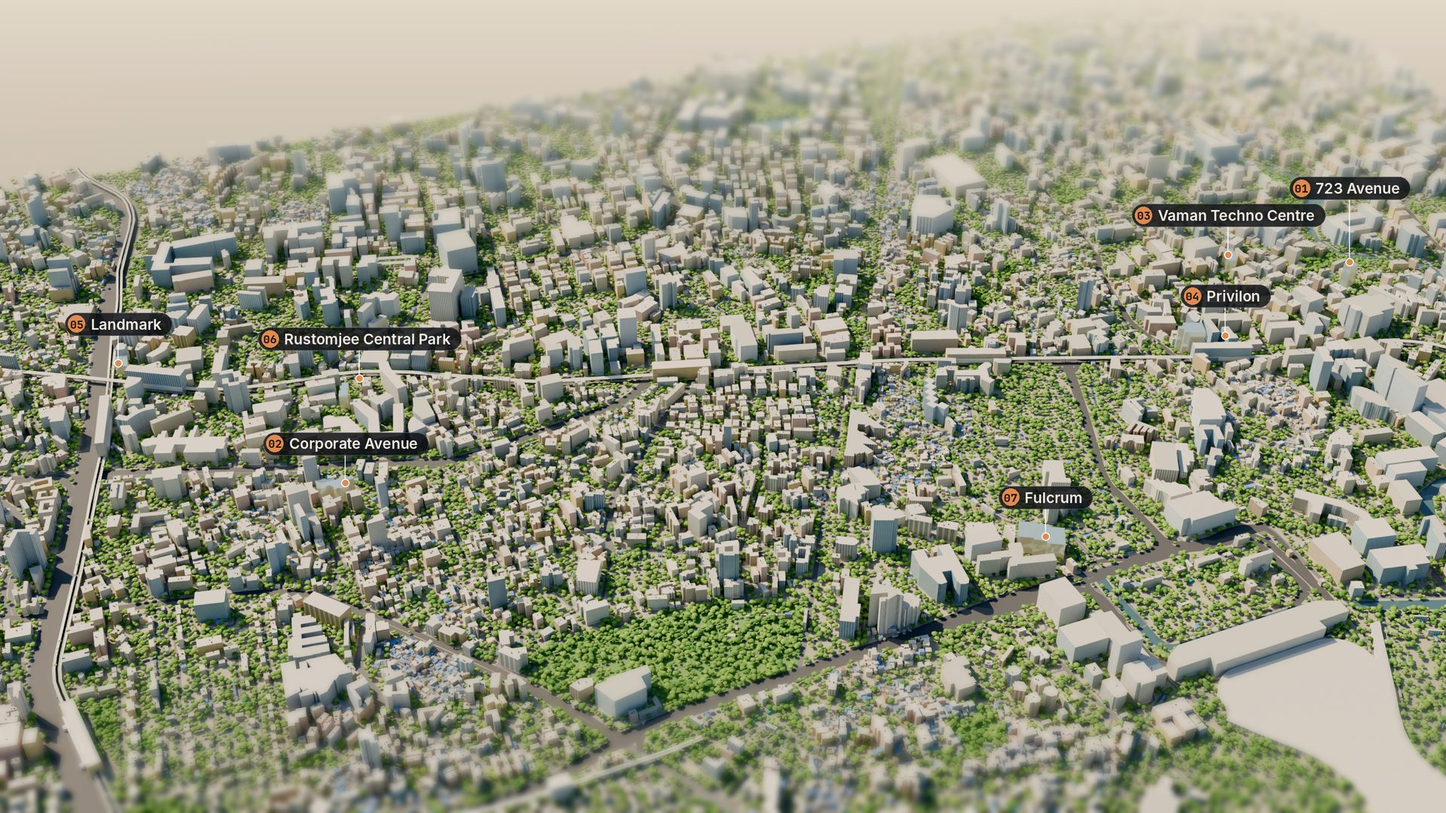
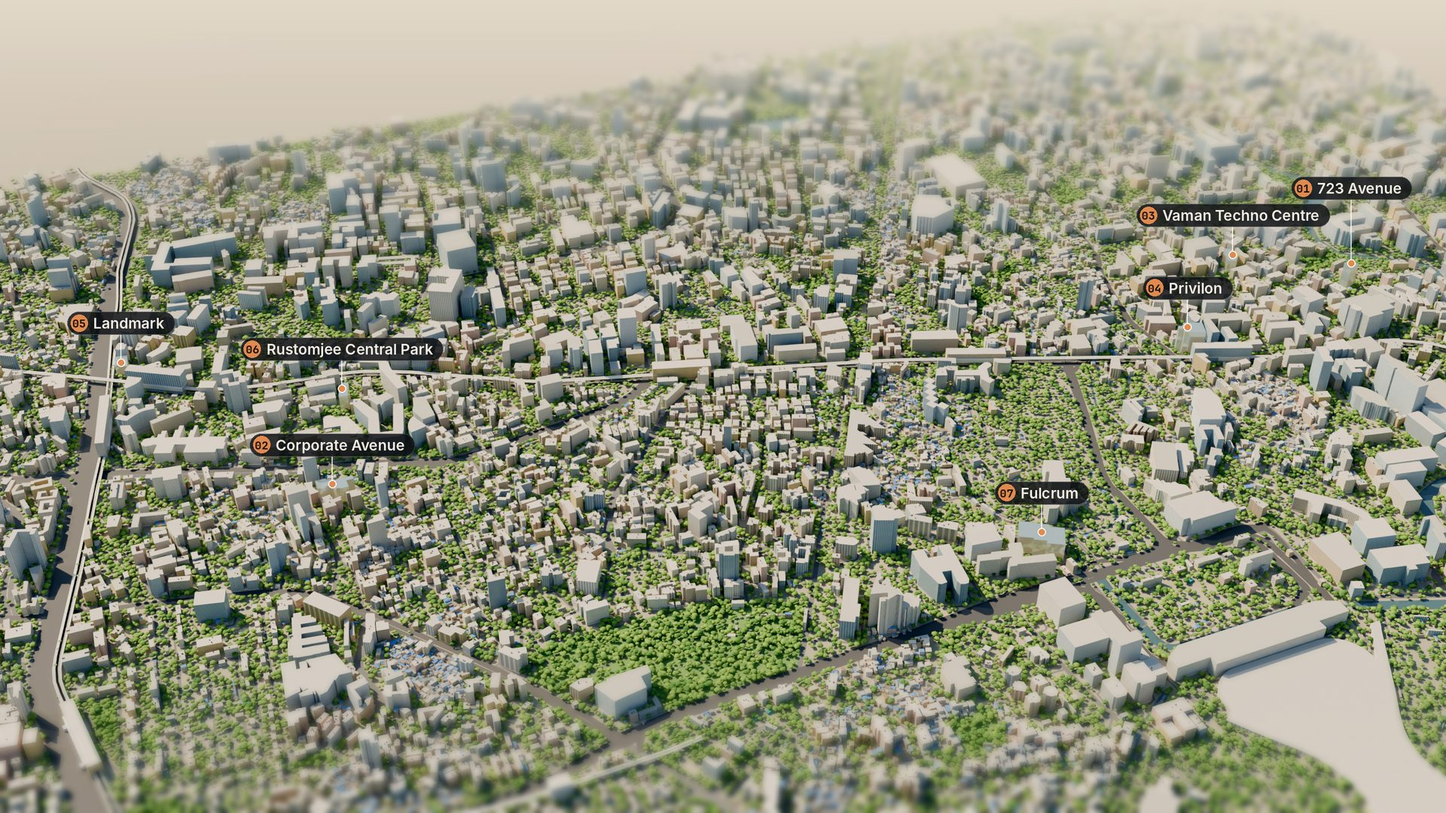
Flipkart 3D world: Blender close-ups of all seven buildings
Each option's panel in the 3D world now shows its own Cycles render, labelled
on the building itself (the footprint centre, not the pin, which for Privilon
marks the station next door). Labels can be recomputed without re-rendering
(build.py --labels-only).

Claude-Session: https://claude.ai/code/session_01JjaGfqC5B5YAe4mdT1z2YS

diff --git a/scripts/world/build.py b/scripts/world/build.py
@@ -1,7 +1,7 @@
 """Andheri East 3D world: build the scene in Blender, export it for the web,
 and render stills.
 
-  python scripts/world/build.py SCENE.json OUT_DIR [--glb] [--render NAME ...] [--fast]
+  python scripts/world/build.py SCENE.json OUT_DIR [--glb] [--render NAME ...] [--fast] [--labels-only]
 
 Runs headless with Blender as a Python module (pip install bpy==5.2.3), the
 "Blender writes the geometry, three.js shows it" pipeline of the 3ditions kits
@@ -427,7 +427,8 @@ def render(name):
     sc.view_settings.exposure = -0.55 if mood == "day" else 0.2 if mood == "dusk" else 0.6
     sc.render.image_settings.file_format = "PNG"
     sc.render.filepath = os.path.join(OUT, f"{name_out}.png")
-    bpy.ops.render.render(write_still=True)
+    if "--labels-only" not in args: bpy.ops.render.render(write_still=True)
+    bpy.context.view_layer.update()   # the camera's matrix, when nothing was rendered
     # where the options fell in the frame, for labels
     from bpy_extras.object_utils import world_to_camera_view
     import mathutils
@@ -435,7 +436,10 @@ def render(name):
     for o in S["options"]:
         b = next(x for x in S["buildings"] if x.get("opt") == o["id"]) if any(x.get("opt") == o["id"] for x in S["buildings"]) else None
         h = b["h"] if b else 40
-        v = world_to_camera_view(sc, cam, mathutils.Vector((o["x"], o["y"], h)))
+        # label the building itself: its footprint centre, not the pin (a pin
+        # can mark an address on the next-door station)
+        cx, cy = (sum(p[0] for p in b["p"]) / len(b["p"]), sum(p[1] for p in b["p"]) / len(b["p"])) if b else (o["x"], o["y"])
+        v = world_to_camera_view(sc, cam, mathutils.Vector((cx, cy, h)))
         pos[o["id"]] = [round(v.x, 4), round(1 - v.y, 4), round(v.z, 1)]
     json.dump(pos, open(os.path.join(OUT, f"{name_out}.labels.json"), "w"))
     print("rendered", name)

diff --git a/scripts/world/finish.py b/scripts/world/finish.py
@@ -52,7 +52,8 @@ def labels(im, pos, scale=1.0):
     f, fn = font(FONT, int(26 * scale)), font(MONO, int(20 * scale))
     placed = []
     for oid, (x, y, z) in sorted(pos.items(), key=lambda kv: kv[1][1]):
-        if z <= 0 or not (0 < x < 1 and 0 < y < 1): continue
+        if z <= 0 or not (0 < x < 1) or y > 1: continue
+        y = max(y, 0.16)   # a roof above the frame: label it at the top edge
         n, name = NAMES[oid]; px, py = x * W, y * H
         ly = py - 70 * scale
         for (qx, qy) in placed:
